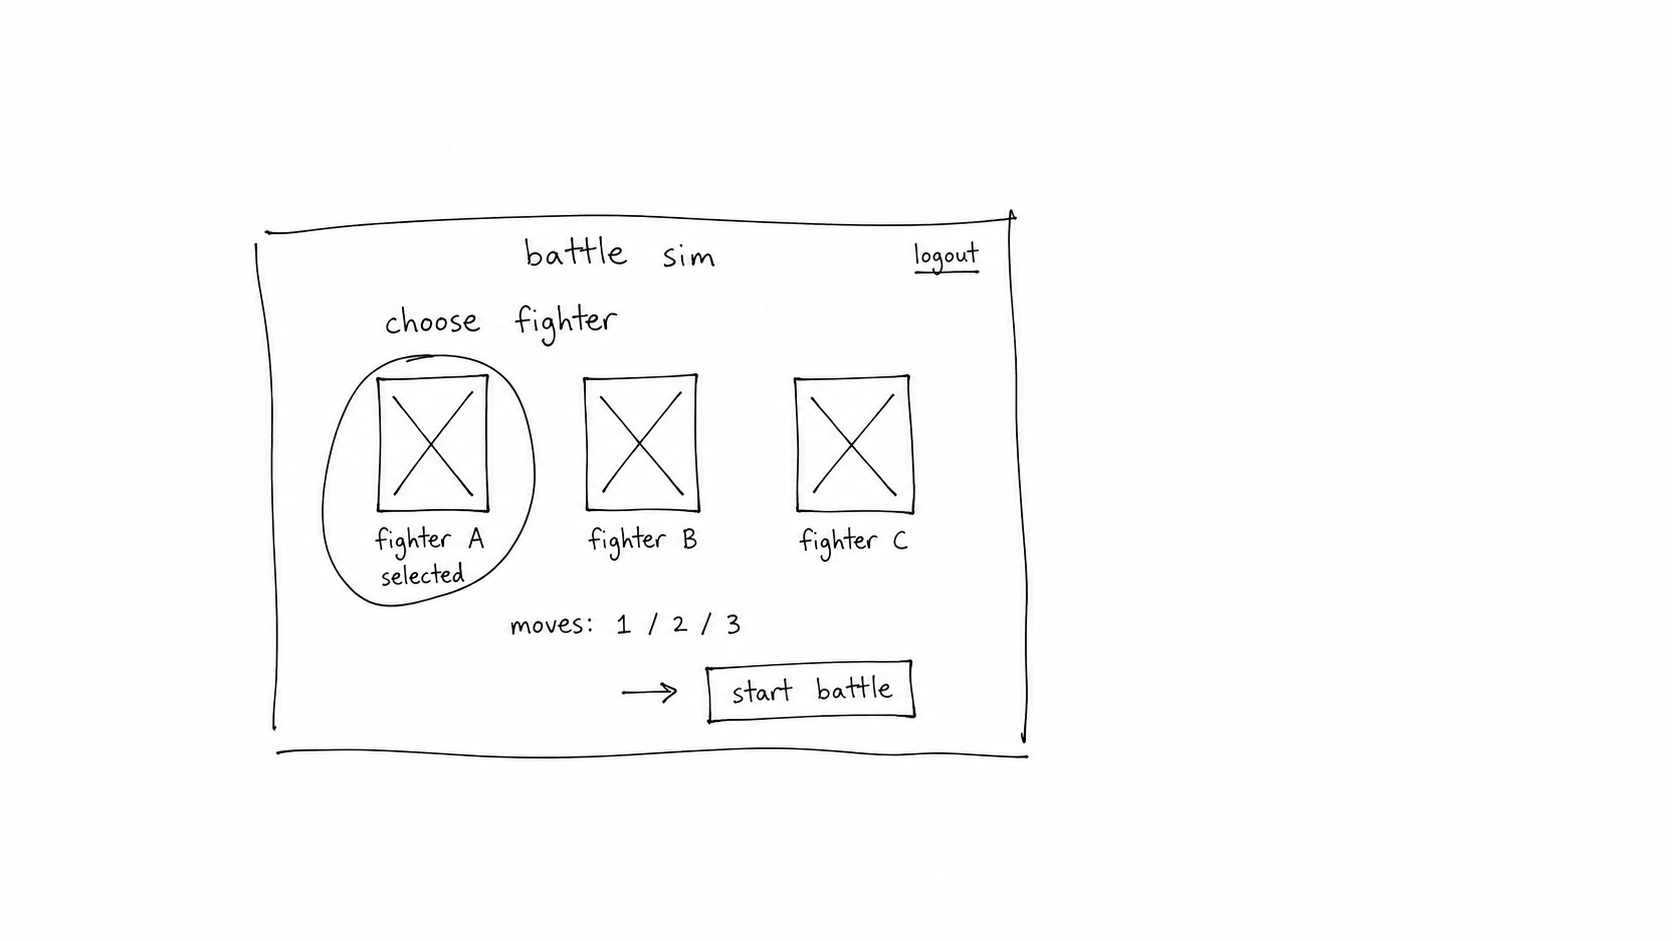
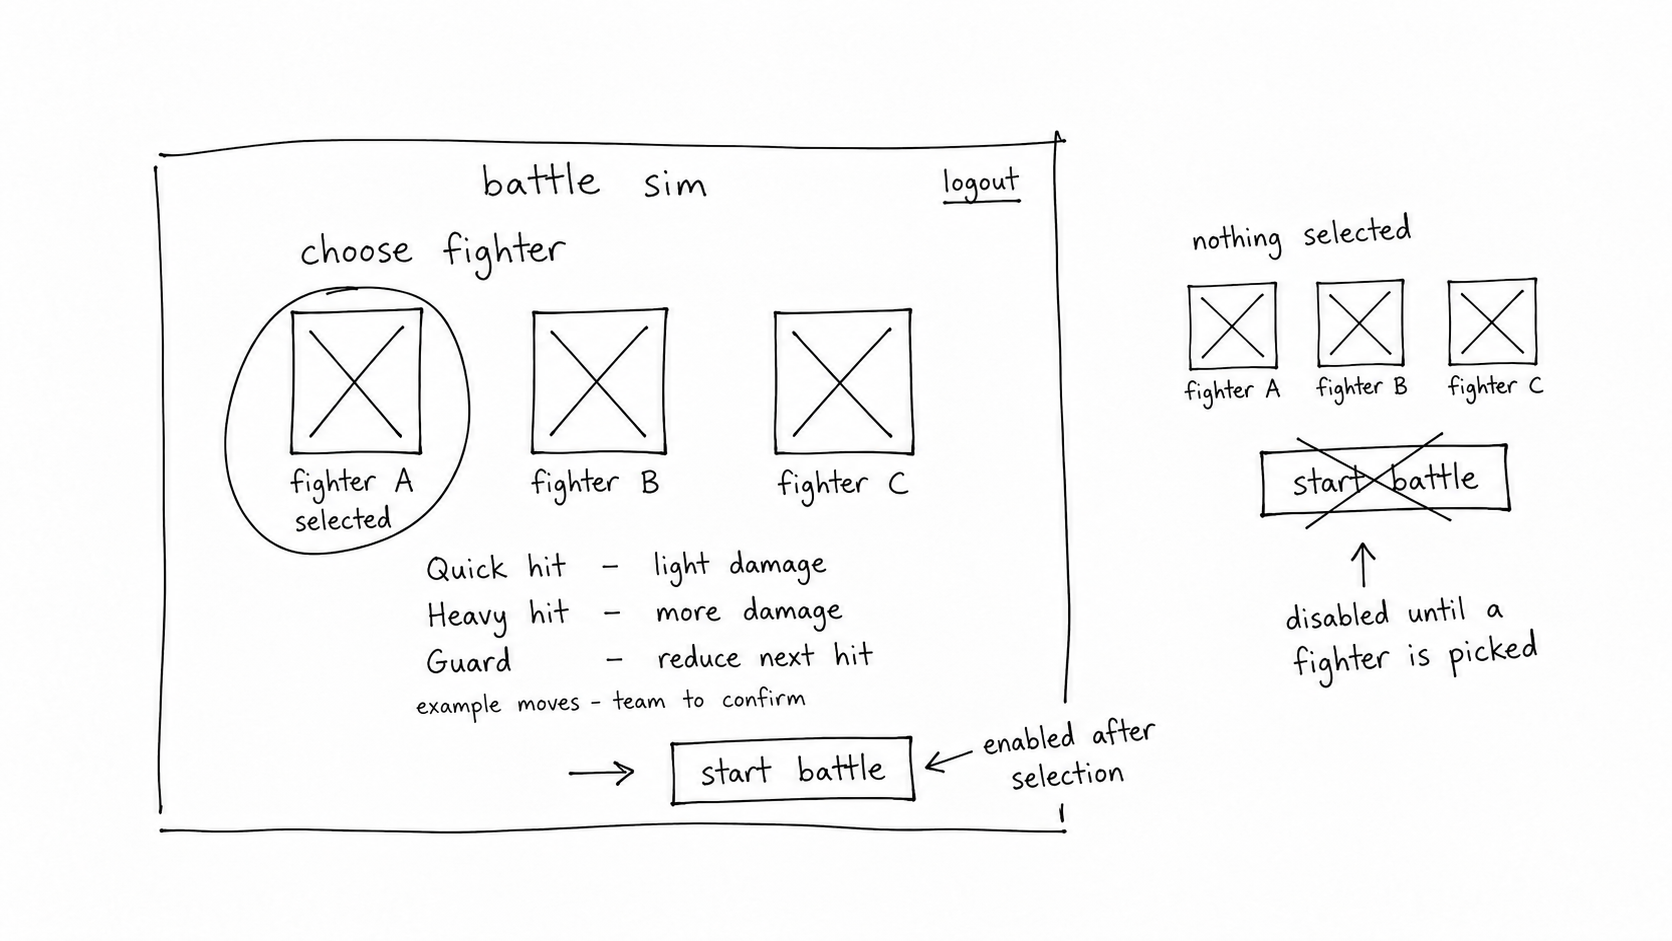
Clarify fighter moves and selection availability
Refs #16.

diff --git a/MilestoneSubmissions/wireframes/home-character-selection-notes.md b/MilestoneSubmissions/wireframes/home-character-selection-notes.md
@@ -9,4 +9,6 @@ Proposed flow: login -> home -> character selection -> battle. Coordinate the se
 
 ## Review notes
 
-Fighter labels and three move slots are illustrative, not an agreed roster or battle specification. The selected fighter is circled and labeled in the sketch. Disabled-button behavior, detailed move information, mobile layout, and user/team walkthrough remain to be reviewed. These images do not by themselves complete every criterion in #16.
+Fighter labels and move examples are illustrative, not an agreed roster or battle specification. The selected fighter is circled and labeled. Proposed move summaries are Quick hit (light damage), Heavy hit (more damage), and Guard (reduce next hit); the sketch explicitly marks them for team confirmation. The alternate no-selection state shows Start battle disabled until a fighter is picked; the selected state enables it.
+
+Home includes the required title, welcome/player name, Play, and Log out. Team confirmation of the roster, moves, and added Home route, mobile layout, and an actual teammate/user walkthrough remain pending. These drafts do not establish that every criterion in #16 is complete.
